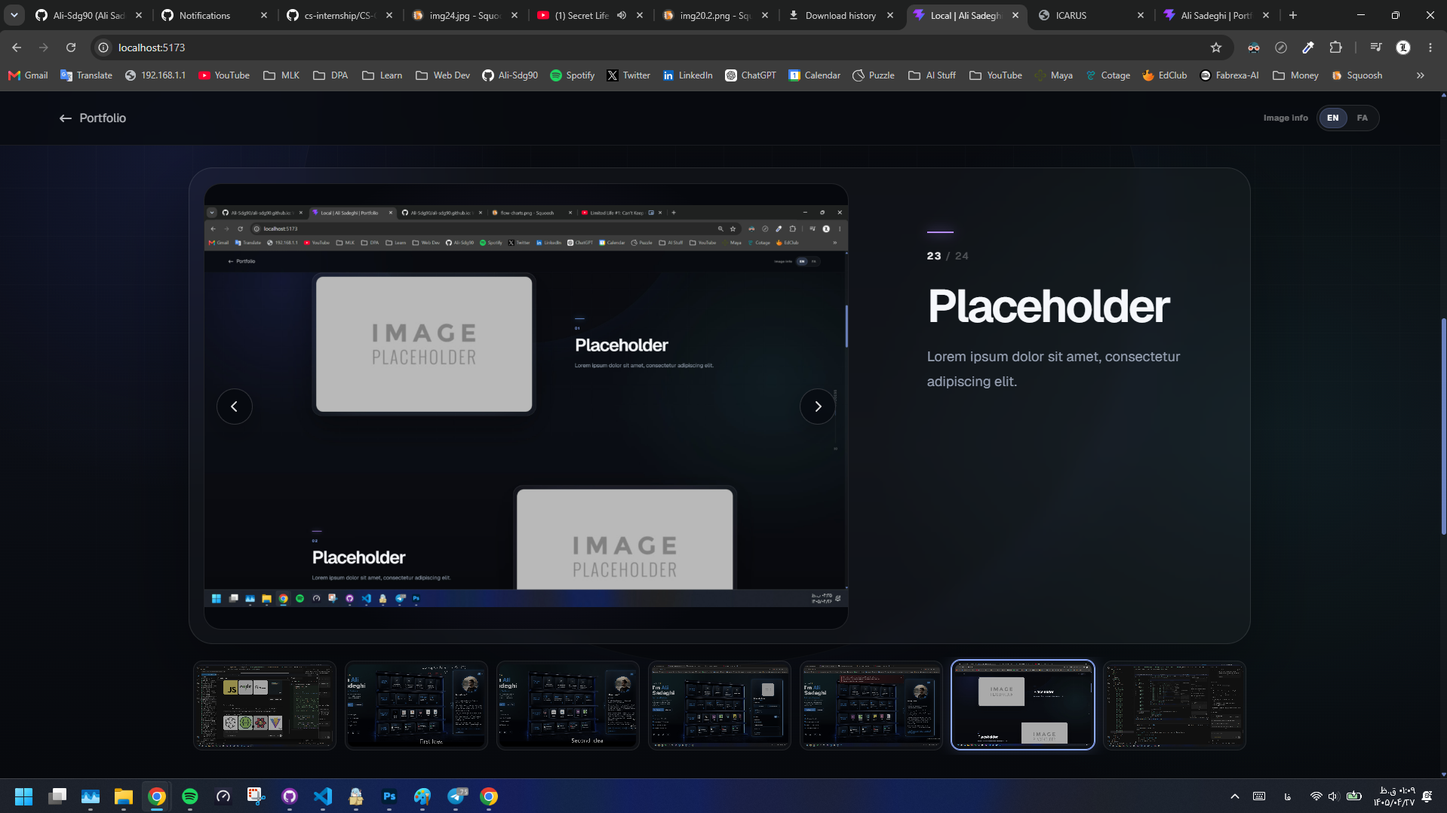
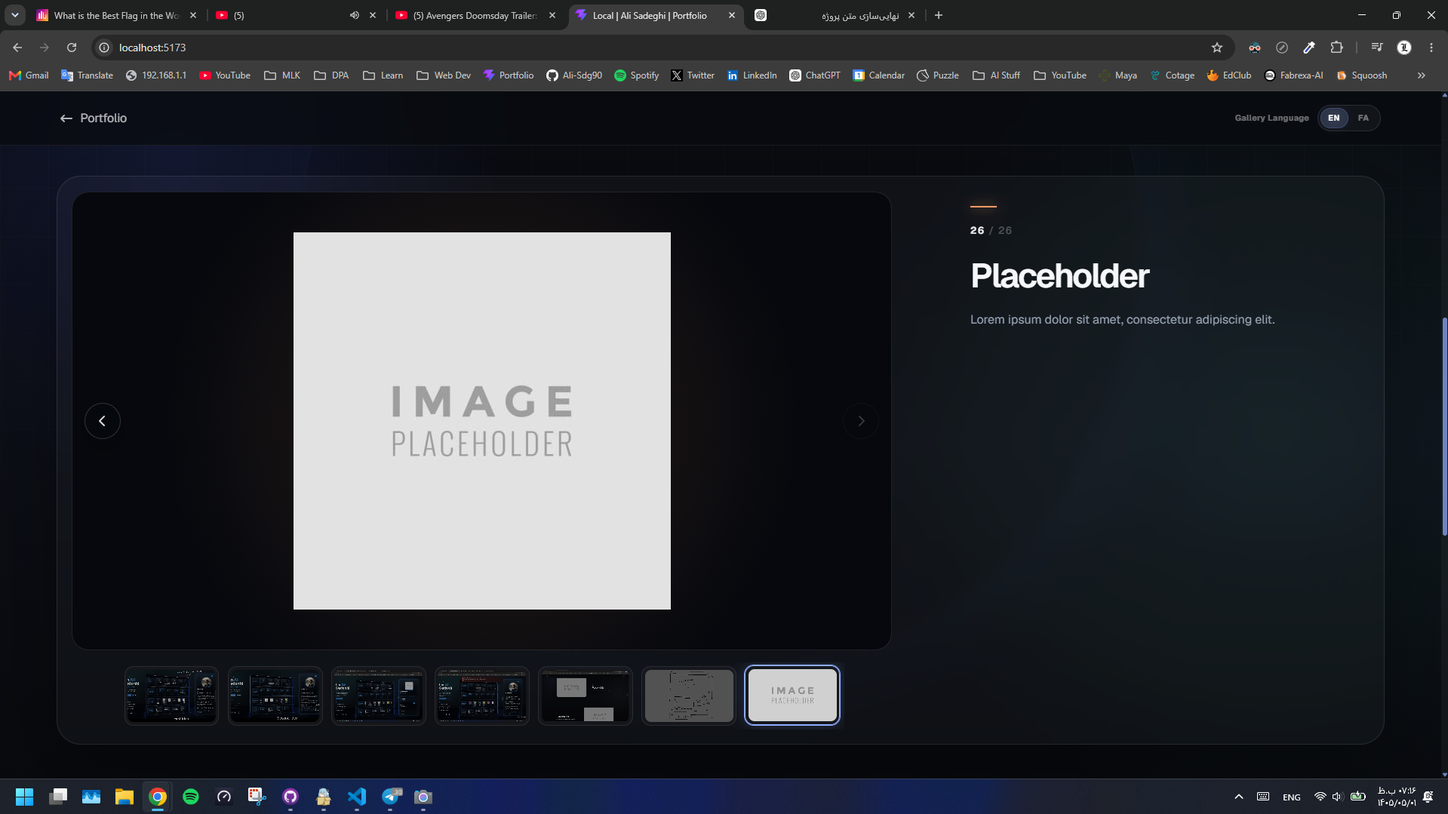
fix: finish the story for images in gallery, improve titles for slides and make them more fun, start deep reviewing the section

diff --git a/src/data/howItWasBuilt/howItWasBuiltData.js b/src/data/howItWasBuilt/howItWasBuiltData.js
@@ -51,6 +51,8 @@ import historyImage25Small from "../../assets/images/history-class/small-images/
 import historyImage26Large from "../../assets/images/history-class/large-images/img26.png";
 import historyImage26Small from "../../assets/images/history-class/small-images/img26.jpg";
 
+// import placeholderImageSmall from "../../assets/images/global/placeholder.jpg";
+
 export const howItWasBuiltData = {
     page: {
         title: "How My Portfolio Was Built",
@@ -64,7 +66,7 @@ export const howItWasBuiltData = {
             id: "history-01",
             translations: {
                 en: {
-                    title: "Shaping the First Vision",
+                    title: "First Vision",
                     description: `I always wanted to have a personal portfolio. A place where I could show the things I’ve built in one place, but not just as a simple normal page. I wanted the portfolio to fully feel like Ali. Something that made it clear from the start that it was built with my own creativity and personality.
 
 Something like a hub. A connection point for my projects, my resume, my social media links, and the things related to me.
@@ -76,7 +78,7 @@ I even thought it might be fun to have Ali on the side, waving in stop motion, f
 I drew the first version of the idea very simply in Paint, and this became the first initial design of the project.`,
                 },
                 fa: {
-                    title: "رسیدن به ویژن اولیه",
+                    title: "ویژن اولیه",
                     description: `من همیشه دوست داشتم یه پورتفولیوی شخصی داشته باشم؛ جایی که بتونم ساختههام رو یکجا به نمایش بذارم، ولی فقط یه صفحهی ساده و معمولی نباشه. میخواستم پورتفولیو کاملا به مدل علی باشه. چیزی که از همون اول معلوم باشه با خلاقیت و شخصیت خودم ساخته شده.
 
 یه چیزی شبیه یه هاب؛ یه نقطهی اتصال برای پروژههام، رزومهم، لینکهای سوشال مدیاهام و چیزهایی که به من مربوط میشن.
@@ -99,7 +101,7 @@ I drew the first version of the idea very simply in Paint, and this became the f
             id: "history-02",
             translations: {
                 en: {
-                    title: "Shaping the First Design",
+                    title: "First Design",
                     description: `I told ChatGPT about my idea, the vision I had for it, and how I wanted it to be built. I also gave it my resume, and we talked about the design of my portfolio together.
 
 In the end, we got to this image. It felt really special, creative, and exciting to me.
@@ -113,7 +115,7 @@ The design was something I was excited to build myself. I also had some experien
 So now that I had the design and the vision, I could start the project.`,
                 },
                 fa: {
-                    title: "رسیدن به دیزاین اولیه",
+                    title: "دیزاین اولیه",
                     description: `ایدهم رو به چتجیپیتی گفتم، ویژنی که براش داشتم و میخواستم اونجوری ساخته بشه. همراه ایدهم، رزومهم رو هم بهش دادم و با هم راجب دیزاین پورتفولیوم گپ زدیم.
 
 در نهایت به این عکس رسیدیم. چیزی بود که به نظرم خیلی خاص و خلاقانه و جذاب بود.
@@ -200,7 +202,7 @@ Now it was time to arrange them.`,
             id: "history-05",
             translations: {
                 en: {
-                    title: "The Fight With Perspective",
+                    title: "Playing with Perspective",
                     description: `Placing the cards according to the perspective of the shelf image was a really complicated process...
 
 It was all about playing with the perspective origin, the perspective value, and the X, Y, and Z rotation angles of the cards...
@@ -214,7 +216,7 @@ At this stage, I only used the Things I’ve Built row as my working reference a
 So later, I could go back and find the correct values for each shelf.`,
                 },
                 fa: {
-                    title: "نبرد با پرسپکتیو",
+                    title: "بازی با پرسپکتیو",
                     description: `قرار دادن کارتها طبق پرسپکتیو عکس شلف، پروسه خیلی پیچیدهای بود...
 
 همش بازی با اوریجین پرسپکتیو، مقدار پرسپکتیو، زاویههای X و Y و Z چرخش کارتها...
@@ -239,7 +241,7 @@ So later, I could go back and find the correct values for each shelf.`,
             id: "history-06",
             translations: {
                 en: {
-                    title: "Victory Over Perspective",
+                    title: "It Moves!",
                     description: `With a lot of precision, I managed to get the card angles right!
 
 I kept telling myself that if I could not get the angles right, it would be the first thing people would notice unconsciously at first glance, and it could make all the work I had done, and all the work ahead of me, feel worthless. If it looked off, the user would feel that something here is wrong. It does not feel natural.
@@ -251,7 +253,7 @@ Then I added the infinite card behavior, the acceleration and natural dragging b
 The movement speed of the cards and the amount of friction when they were thrown felt natural and fun to me.`,
                 },
                 fa: {
-                    title: "پیروزی بر پرسپکتیو",
+                    title: "تکون میخوره!",
                     description: `با ظرافت خیلی زیاد تونستم زاویهی کارتها رو درست دربیارم!
 
 با خودم میگفتم اگه نتونم زاویهها رو درست دربیارم، اولین چیزی هست که بهصورت ناخودآگاه توی دید اول به چشم میاد و میتونه کل زحمات الان و آیندهم رو بیارزش کنه. اگه مشکلدار باشه، کاربر میگه اینجا یه چیزی اشتباهه. طبیعی نیست.
@@ -274,7 +276,7 @@ The movement speed of the cards and the amount of friction when they were thrown
             id: "history-07",
             translations: {
                 en: {
-                    title: "Shaping the Shelf's DNA",
+                    title: "Injecting DNA into the Shelf",
                     description: `I also made the card width separate data for each row. Now the length, width, angle, perspective, speed, behavior, and data of each row were unique to that row, and were passed into the template file to be built.
 
 I finalized the short descriptions of my projects, added square placeholders for the images, and improved the style and spacing of the cards.
@@ -282,7 +284,7 @@ I finalized the short descriptions of my projects, added square placeholders for
 For the first time, I could really see how beautiful it was going to become!`,
                 },
                 fa: {
-                    title: "شکل دادن DNA شلف",
+                    title: "تزریق DNA شلف",
                     description: `عرض کارتها هم دیتای جدا برای هر ردیف کردم. الان طول، عرض، زاویه، پرسپکتیو، سرعت، رفتار و دیتای هر ردیف، مختص به خودش بود و برای ساخته شدن، به فایل تمپلیت داده میشد.
 
 دیسکریپشن کوتاه پروژههام رو نهایی کردم، برای عکسها مربع پلیسهولدر گذاشتم و استایل و فاصلهگذاری کارتها رو بهتر کردم.
@@ -301,7 +303,7 @@ For the first time, I could really see how beautiful it was going to become!`,
             id: "history-08",
             translations: {
                 en: {
-                    title: "Shaping the Project's Soul",
+                    title: "My Baby is Alive!",
                     description: `I added the images for the Tech Stack and Career sections.
 
 All of the images needed a quick visit to Photoshop so their size would be exactly 300 by 300, and so the logos would not stick too close to the border. I wanted them to have a little bit of space and sit nicely inside the cards. (This gets much better later.)
@@ -313,7 +315,7 @@ Now my project was not just a single blue color anymore. It felt like it had gai
 And I do not know why this screenshot is so much brighter than the others... but it turned out cool :)`,
                 },
                 fa: {
-                    title: "شکل دادن روح پروژه",
+                    title: "بچم زندست!",
                     description: `عکسهای قسمت Tech Stack و Career رو گذاشتم.
 
 عکسها همشون نیاز بود یه بار سر به فتوشاپ بزنن که اندازهشون حتما ۳۰۰ در ۳۰۰ بشه و تا جای ممکن لوگو خیلی به بوردر نچسبه و یکم فاصله داشته باشه که خوشگل تو کارت بشینه. (بعدا این خیلی بهترتر میشه)
@@ -367,7 +369,7 @@ Oh, and yeah, I also filled the left side of the page.`,
             id: "history-10",
             translations: {
                 en: {
-                    title: "Changing Direction",
+                    title: "Two Different Worlds",
                     description: `For testing, I took a photo of myself with the outfit and lighting angle I had in the design, and placed it inside the project.
 
 It was really disappointing for me to see that having my own photo on the page did not work well.
@@ -379,7 +381,7 @@ There was another problem too. Having my photo there grabbed too much attention.
 So this was a failed but cool test, and saw that I needed to change the design of the project.`,
                 },
                 fa: {
-                    title: "تغییر مسیر",
+                    title: "دو دنیای متفاوت",
                     description: `برای تست، یه عکس از خودم با لباس و زاویهی نوریای که تو دیزاین داشتم گرفتم و تو پروژه گذاشتم.
 
 برام خیلی ناراحتکننده بود که دیدم بودن عکس خودم تو صفحه خوب جواب نمیده.
@@ -495,7 +497,7 @@ It felt like a creative and good idea to me. With ChatGPT, I made the rough desi
             id: "history-14",
             translations: {
                 en: {
-                    title: "Implementing the Dynamic Modal",
+                    title: "Dynamic Model",
                     description: `I implemented the dynamic model of the About Section.
 
 It looked pretty and cool to me. The only thing was that the content inside it felt a little too small and tiny.
@@ -505,7 +507,7 @@ I wanted each card to also have a description and story section, where I could w
 I also made the whole section straight and removed the tilted perspective from it.`,
                 },
                 fa: {
-                    title: "پیادهسازی مدال داینامیک",
+                    title: "مدال داینامیک",
                     description: `مدل داینامیک About Section رو پیادهسازی کردم.
 
 به چشمم خوشگل و باحال میومد. فقط محتواهای داخلش یه کم زیادی کوچیک و ریز به چشمم میومد.
@@ -526,7 +528,7 @@ I also made the whole section straight and removed the tilted perspective from i
             id: "history-15",
             translations: {
                 en: {
-                    title: "The Accordion Modal Begins",
+                    title: "Myself in a Modal",
                     description: `I finally wrote the About Me text. I really tried to make it feel exactly, exactly like myself, but it was a little longer than I wanted. For now, I kept it like this so I could come back to it later.
 
 I finalized the width of the About Me section and started adding the expanded state for the About Section.
@@ -536,7 +538,7 @@ The first implementation did not have a very pretty icon, but it was still a sta
 Then I thought I could use different widths for About Me and About Card, so when switching between these two modes, there would be a width difference between them. It is a simple effect, but it looks nice to the eye.`,
                 },
                 fa: {
-                    title: "شروع مودال آکاردئونی",
+                    title: "خودم تو مودال",
                     description: `متن About Me رو بالاخره نوشتم. خیلی سعی کردم متن دقیقا خود خود خودم باشه، ولی یکم طولانیتر از چیزی بود که دوست داشتم. فعلا همین رو نگه داشتم تا بعدا دوباره بهش سر بزنم.
 
 عرض سکشن About Me رو نهایی کردم و شروع کردم به اضافه کردن حالت expanded سکشن About Section.
@@ -557,7 +559,7 @@ Then I thought I could use different widths for About Me and About Card, so when
             id: "history-16",
             translations: {
                 en: {
-                    title: "Building the Bigger Modal Model",
+                    title: "Elastic Modal",
                     description: `I finalized the design of the expanded state.
 
 I gave the section a small blur, and in my eyes it became really pretty.
@@ -571,7 +573,7 @@ The section still does not have a scrollbar. The text also has a little too much
 In the next step, I cleaned up the section.`,
                 },
                 fa: {
-                    title: "ساخت مدل مدال بزرگتر",
+                    title: "مودال الاستیک",
                     description: `دیزاین حالت expanded رو نهایی کردم.
 به سکشن یه blur ریز دادم و به دیدم خیلی خوشگل شد.
 
@@ -595,7 +597,7 @@ In the next step, I cleaned up the section.`,
             id: "history-17",
             translations: {
                 en: {
-                    title: "Always Privacy First",
+                    title: "My Conscience Is at Ease",
                     description: `I gave the About Section a custom scrollbar. I manually adjusted its size, animation, delay, and movement speed until it felt natural, soft, and lovely to me.
 
 Here, I learned an important lesson. At first, I wanted to use photos from communities, meetings, and groups I had been part of in the card galleries, like governance meetings, general meetings, sprints, workshops, and so on. I had edited them heavily so no private information or people’s names would be visible, but it still did not feel right to put people’s faces on my site. Even with names and information removed, they might still not be okay with their photos being in my portfolio.
@@ -605,7 +607,7 @@ I removed the photos that showed another person or their non-public information,
 Writing the stories and adding gallery images gave my project a lot of soul and personality. Like a person’s character, it is built with memories and the things they have experienced. Now my project was starting to gain memories and personality.`,
                 },
                 fa: {
-                    title: "Always Privacy First",
+                    title: "وجدانم باید راحت باشه",
                     description: `به About Section اسکرولبار کاستوم دادم. برای اندازه، انیمیشن، دیلی و سرعت حرکتش، دستی مقادیر رو بالا و پایین کردم و در نهایت به چشمم طبیعی و نرم و دوستداشتنی میومد.
 
 اینجا یه درس مهم یاد گرفتم. اول میخواستم تو گالری کارتها عکس کامیونیتی، جلسات و گروههایی که بودم رو بذارم. مثلا اسکرینشات جلسات گاورننس، عمومی، اسپرینت، کارگاه و غیره. عکسها رو هم حسابی ادیت کرده بودم که هیچ اطلاعات خصوصی یا اسم افراد توش معلوم نباشه، ولی باز خیلی اوکی نبود بخوام عکس صورت افراد رو تو سایتم بذارم. حتی اگه اسم و تمامی اطلاعاتشون حذف شده باشه، باز شاید اون افراد راضی نباشن عکسشون تو پورتفولیوم باشه.
@@ -626,7 +628,7 @@ Writing the stories and adding gallery images gave my project a lot of soul and 
             id: "history-18",
             translations: {
                 en: {
-                    title: "The Power of Codex",
+                    title: "Thanks to AI Overloards",
                     description: `All the images I had up to this point were small 300 by 300 thumbnails. I wanted the image to be shown to the user inside a lightbox when they clicked on it. But the quality and size of all the images were small, so I needed both a small and a large version for all the shelf and project images.
 I only had the small versions of the images. I had also not saved the Photoshop files I used to finalize the shelf images while creating them.
 So I asked Codex for help. I told it to go into this folder, take the small images, and without changing anything inside the images, create sharper and higher-quality 600 by 600 versions, then put them in this folder.
@@ -636,7 +638,7 @@ In almost 15 minutes, it created 28 images with the quality and exact result I w
 I had never used Codex like this before, and I was really amazed by its power and quality :)`,
                 },
                 fa: {
-                    title: "قدرت Codex",
+                    title: "تشکر از AI Overloards",
                     description: `تمام عکسهایی که تا اینجا داشتم، برای حالت thumbnail کوچیک و ۳۰۰ در ۳۰۰ بود. میخواستم وقتی کاربر روی هر عکس کلیک میکنه، تو یه lightbox عکس به کاربر نشون داده بشه. ولی الان کیفیت و سایز همهی عکسها کوچیک بود، پس نیاز بود از تمامی عکسهای شلف و پروژه، ورژن عکس کوچیک و بزرگ داشته باشم.
 من فقط ورژن کوچیک عکسها رو داشتم. فایل فتوشاپی هم که باهاشون عکسهای شلف رو نهایی کرده بودم، موقع ساختنشون سیو نکرده بودم.
 پس از Codex کمک گرفتم. بهش گفتم برو تو این پوشه، عکسهای کوچیک رو بدون تغییر هیچ چیز تو خود عکس، با سایز ۶۰۰ در ۶۰۰، با کیفیت بهتر و شارپتر بساز و تو این پوشه بذار.
@@ -668,7 +670,7 @@ I wanted it to be a separate page inside my project, so I thought a lot about wh
 Every part of the page had its own reason to be there, and I could not just place a random button somewhere. In the end, I came up with two ideas for placing it, which we will see in the next two slides.`,
                 },
                 fa: {
-                    title: "ایدهی گلِ پروژه",
+                    title: "گل پروژه",
                     description: `یکی از فیچرهایی که وسط کار به ذهنم رسید و به نظرم خیلی مهم و باحال بود، همین تاریخچهی اینکه چطور پروژهم رو ساختم بود.
 
 بودنش شبیه یه یادداشت خاطره از پروژهم برای خودم بود و بقیه میتونستن همراه من سفر ذهنی کنن که چجوری پروژه رو ساختم، رشدش چطور بود، به چه مشکلاتی خوردم و چطور حلشون کردم.
@@ -691,7 +693,7 @@ Every part of the page had its own reason to be there, and I could not just plac
             id: "history-20",
             translations: {
                 en: {
-                    title: "It Didn’t Land Well",
+                    title: "Pretty but Nah...",
                     description: `The first idea was to put an item on top of the shelf, like in the image. Something like a book lying on the shelf, with “How My Portfolio Was Built” written on it. When clicked, it would open the page that is open right now.
 
 It was a pretty and creative idea. I implemented it for testing, but in practice it did not work very well.
@@ -702,7 +704,7 @@ I did not want my design to become more crowded or lose the beauty of the perspe
 So I gave up on this idea.`,
                 },
                 fa: {
-                    title: "نتونست خوب بشینه",
+                    title: "خوشگله ولی نه...",
                     description: `ایدهی اول این بود که یه آیتم بالای شلف مثل عکس بذارم. شبیه یه کتاب که بالای شلف افتاده. روش نوشته باشه How My Portfolio Was Built و وقتی روش کلیک بشه، این صفحهای که الان باز هست باز بشه.
 
 ایدهی خوشگل و خلاقانهای بود. این رو برای تست پیادهسازی کردم، ولی تو عمل خیلی خوب نشد.
@@ -763,7 +765,7 @@ I was really happy that the confusion I had from the start of the project about 
             id: "history-22",
             translations: {
                 en: {
-                    title: "Story for Every Card",
+                    title: "Every Card Story",
                     description: `I finalized the About Cards template for all sections, both in structure and style.
 
 I added a Story section to the cards. I was going to write the story of each card, the experience, and the things related to it in my own voice. This made it feel like it was really Ali’s work, not just a dry and cold resume with project or card information.
@@ -773,7 +775,7 @@ Now, the only thing left was the very hard and time-consuming work of novel-writ
 You might not believe it, but filling a single card took an unbelievable amount of time. As I’m writing this, it is 2 AM, and I have spent today, yesterday, and the day before finalizing the text and small details of this gallery. There are still a few more slides left D:`,
                 },
                 fa: {
-                    title: "داستان برای هر کارت",
+                    title: "داستان هر کارت",
                     description: `تمپلیت قسمت About Cards رو برای همهی سکشنها از نظر ساختار و استایل نهایی کردم.
 
 به کارتها قسمت Story اضافه کردم. توش قرار شد به زبون خودم داستان هر کارت، تجربه و چیزهای مربوط بهش رو بنویسم. اینجوری حس میکردم این واقعا کار علی هست، نه فقط یه رزومهی خشک و سرد با اطلاعات پروژه یا کارت.
@@ -794,14 +796,24 @@ You might not believe it, but filling a single card took an unbelievable amount 
             id: "history-23",
             translations: {
                 en: {
-                    title: "Placeholder",
-                    description:
-                        "Lorem ipsum dolor sit amet, consectetur adipiscing elit.",
+                    title: "Look at Me!!",
+                    description: `At this point, the project had reached a stage where I wanted to use its link on my social media and introduce it to people I knew. So I added a temporary Toast saying that the project was still in progress, and that this link could be used to follow its progress.
+
+Clicking and opening the project history page was not very obvious, so I added an onboarding-like behavior for the feature. Eight seconds after entering the page, the edge of the page would lift a little to quietly grab some attention.
+
+I chose eight seconds because, from my own experience, it took about that long for the eye to see and understand the elements on the page.
+Once the eye understood the page, a small attention grab would happen in the corner so the viewer would not miss this feature.
+This feature might still get lost in the user’s view, but I did not want to make it any louder than this. Someone who cares and wants to explore will notice it. Someone who does not care might be better off not finding it.`,
                 },
                 fa: {
-                    title: "متن جایگزین",
-                    description:
-                        "لورم ایپسوم متن ساختگی با تولید سادگی نامفهوم از صنعت چاپ است.",
+                    title: "منو ببین!!",
+                    description: `اینجا پروژه به جایی رسیده بود که خواستم از لینکش تو سوشالمدیاهام استفاده کنم و به آشناهام معرفیش کنم. برای همین یه Toast موقت به صفحه اضافه کردم که توش میگم این پروژه هنوز داره روش کار میشه و تموم نشده. میتونی با این لینک پیشرفت پروژهم رو ببینی.
+
+کلیک و باز کردن صفحهی تاریخچهی پروژهم خیلی معلوم نبود، پس یه حالت onboarding برای فیچر گذاشتم که ۸ ثانیه بعد از ورود به صفحه، لبهی ورق یه کم بالا بیاد و کمی جلب توجه کنه.
+۸ ثانیه گذاشتم چون با تجربهی خودم، تقریبا ۸ ثانیه طول میکشید تا چشم بتونه المنتهای صفحه رو ببینه و درک کنه.
+وقتی چشم فهمید صفحه چی هست، اونموقع یه جلب توجه ریز گوشهی صفحه انجام میشه که یه وقت این فیچر رو بیننده از دست نده.
+
+باز هم ممکنه این فیچر تو دید کاربر گم بشه، ولی نمیخواستم بیشتر از این جلب توجهش رو بولدتر کنم. کسی که بخواد و براش مهم باشه، متوجهش میشه. کسی که براش مهم نباشه، پیدا نکردن فیچر شاید براش بهتر باشه.`,
                 },
             },
             image: {
@@ -815,14 +827,24 @@ You might not believe it, but filling a single card took an unbelievable amount 
             id: "history-24",
             translations: {
                 en: {
-                    title: "Placeholder",
-                    description:
-                        "Lorem ipsum dolor sit amet, consectetur adipiscing elit.",
+                    title: "Too Tall",
+                    description: `For the design of the portfolio history page, my first idea was a ladder-like layout. A very long page where images and text sit next to each other, and the user can scroll through it.
+
+After building the first template, I realized it did not have a good user experience. With this design, I would not really stop at each image to carefully look at the text and the image. I just wanted to keep scrolling until I reached the bottom of the page.
+
+I wanted this page to be the beautiful gem of my project, and I really did not want to just leave it like that and call it good enough...
+
+So the design had to change.`,
                 },
                 fa: {
-                    title: "متن جایگزین",
-                    description:
-                        "لورم ایپسوم متن ساختگی با تولید سادگی نامفهوم از صنعت چاپ است.",
+                    title: "زیادی قدش بلنده",
+                    description: `برای طراحی صفحهی تاریخچهی پورتفولیو، ایدهی اولیهم حالت نردبونی بود. یه صفحهی خیلی دراز که عکس و نوشته کنار هم هستن و کاربر میتونه اسکرول کنه.
+
+بعد از ساخت تمپلیت اولیهش، دیدم تجربهی کاربری خوبی نداره. با این دیزاین من واقعا سر هر عکس ایست نمیکردم تا با دقت متن و عکس رو ببینم و بخونم، فقط میخواستم اسکرول کنم تا پایین صفحه برم.
+
+من میخواستم این صفحه گوهر خوشگل پروژهم باشه و دلم نمیاومد همینجوری ولش کنم و بگم گود اینافه...
+
+پس دیزاین رو لازم بود عوض کنم.`,
                 },
             },
             image: {
@@ -836,14 +858,24 @@ You might not believe it, but filling a single card took an unbelievable amount 
             id: "history-25",
             translations: {
                 en: {
-                    title: "Placeholder",
-                    description:
-                        "Lorem ipsum dolor sit amet, consectetur adipiscing elit.",
+                    title: "Better Frame",
+                    description: `In the best design tool ever, MS Paint, I sketched the idea of placing the images and text in a gallery-like layout.
+
+I wanted the user to no longer be forced to scroll through a long page, then keep gently moving the scrollbar up and down just to get the image and text exactly in view. If it had stayed like that, the user would probably just give up on reading and seeing the page.
+
+With this model, everything would sit inside one clear box. The user could choose which frame to see, which language to read it in, and how fast they wanted to move through the sections.
+
+It felt like a good idea to me, so I went for implementing it.`,
                 },
                 fa: {
-                    title: "متن جایگزین",
-                    description:
-                        "لورم ایپسوم متن ساختگی با تولید سادگی نامفهوم از صنعت چاپ است.",
+                    title: "قاب بهتر",
+                    description: `تو بهترین برنامهی دیزاین، MS Paint، ایدهی قرارگیری عکسها و متنها به حالت گالری رو کشیدم.
+
+میخواستم کاربر دیگه مجبور نباشه وسط یه صفحهی بلند اسکرول کنه، بعد هی اسکرولبار رو آروم بالا و پایین ببره تا عکس و متن دقیقا جلوی چشمش قرار بگیرن. اگه اون حالت میموند، احتمالا خیلی راحت بیخیال خوندن و دیدن صفحه میشد.
+
+با این مدل، همهچیز داخل یه باکس مشخص قرار میگرفت. کاربر میتونست خودش انتخاب کنه کدوم فریم رو ببینه، با چه زبانی بخونتش و با چه سرعتی بین بخشها جلو بره.
+
+به نظرم ایدهی خوبی بود، پس رفتم برای پیادهسازیش.`,
                 },
             },
             image: {
@@ -857,14 +889,26 @@ You might not believe it, but filling a single card took an unbelievable amount 
             id: "history-26",
             translations: {
                 en: {
-                    title: "Placeholder",
-                    description:
-                        "Lorem ipsum dolor sit amet, consectetur adipiscing elit.",
+                    title: "Almost Alive",
+                    description: `The new design was implemented too.
+I also added some small and pretty intro animations to it. Similar to Apple’s website, I tried to create a nice feeling of entering the page.
+
+There might also be an easter egg on the page that needs to be clicked 10 times before it runs :)
+
+I added the footer, copyright notice, and the project’s custom license to the project too.
+
+Everything felt pretty okay. The only things left were filling the card information and polishing the small details.`,
                 },
                 fa: {
-                    title: "متن جایگزین",
-                    description:
-                        "لورم ایپسوم متن ساختگی با تولید سادگی نامفهوم از صنعت چاپ است.",
+                    title: "تقریباً زنده",
+                    description: `پیادهسازی دیزاین جدید هم انجام شد.
+انیمیشنهای intro ریز و خوشگلی هم بهش دادم. شبیه سایت Apple سعی کردم حس ورود به صفحه رو بسازم.
+
+تو صفحه هم شاید یه ایستر اگ گذاشته باشم که لازم باشه ۱۰ بار روش کلیک بشه تا اجرا بشه :)
+
+فوتر، حق کپیرایت و لایسنس کاستوم پروژه رو هم به پروژه اضافه کردم.
+
+به نظر همهچیزش اوکی بود. فقط پر کردن اطلاعات کارتها و ریزکاریهاش مونده بود.`,
                 },
             },
             image: {
